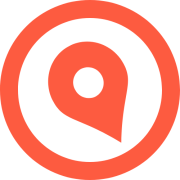
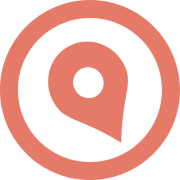
色を自然な色に修正

diff --git a/config/tailwind.config.js b/config/tailwind.config.js
@@ -16,14 +16,15 @@ module.exports = {
       },
       colors: {
         'yamanote-green': {
-          50: '#D7DDD1',
+          50: '#e3edd5',
           80: '#D6E6C1',
-          100: '#6F9142',
+          100: '#a8cf75',
+          150: '#6F9142',
           200: '#374821'
         },
         'bright-orange': {
           50: '#f2bf91',
-          100: '#FD5B40',
+          100: '#e57a68',
           200: '#cc6206'
         },
         'dark-blue': {
